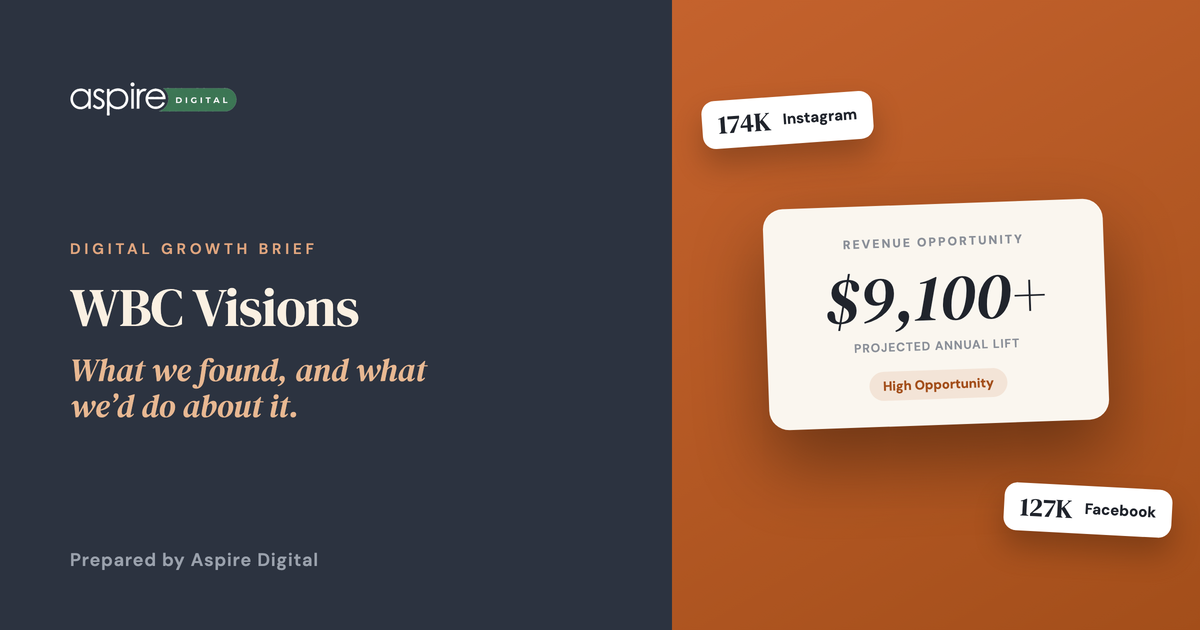
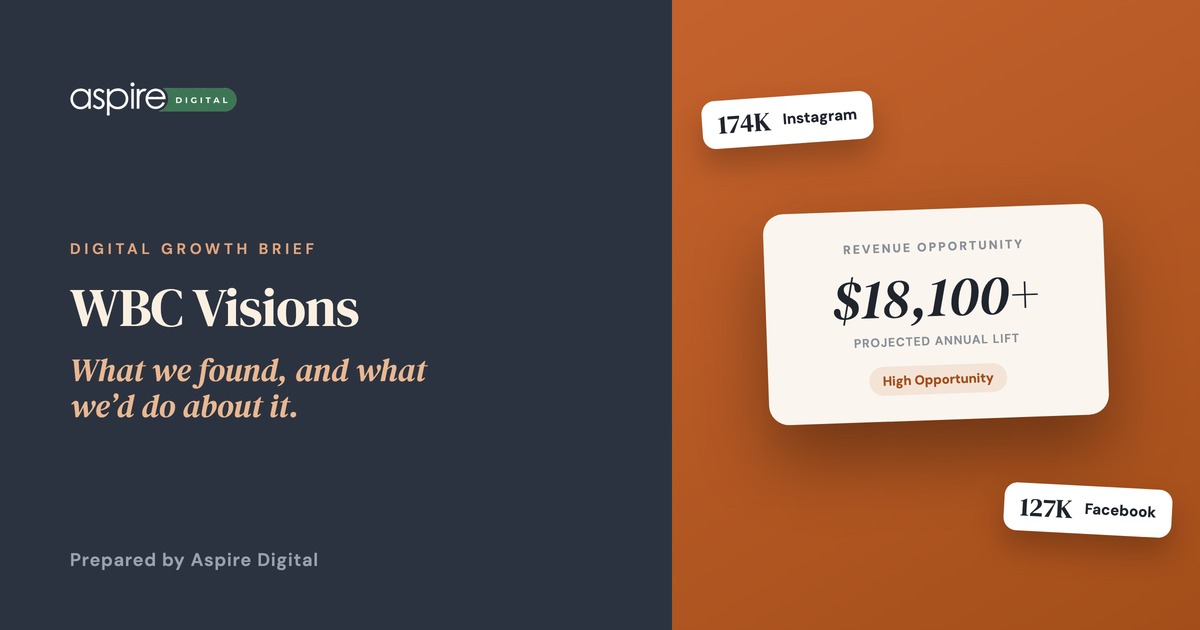
WBC Visions brief: his real rates (Messenger auto-reply) in 01 and the packages item; revenue lift rebuilt on them: 52 x $175 minis + 12 x $750 seniors = $18,100+, 64 new clients; OG card re-rendered

Changed region(s): [[0.6167, 0.3016, 0.925, 0.6333], [0.6475, 0.6333, 0.925, 0.6937]]

diff --git a/wbcvisions/welcome/index.html b/wbcvisions/welcome/index.html
@@ -917,10 +917,10 @@ img{max-width:100%;display:block;}
     </div>
     <div class="hero__opp-card">
       <p class="hero__opp-label">Revenue Opportunity</p>
-      <p class="hero__opp-num">$9,100+</p>
+      <p class="hero__opp-num">$18,100+</p>
       <p class="hero__opp-denom">projected annual lift</p>
       <span class="hero__opp-badge hero__opp-badge--high">High Opportunity</span>
-      <p class="hero__opp-desc">Just one extra $175 mini session a week, booked by someone who found you on Google instead of in the feed.</p>
+      <p class="hero__opp-desc">One extra $175 mini a week and one $750 senior session a month, booked by people who found you on Google instead of in the feed.</p>
     </div>
   </div>
 </section>
@@ -962,7 +962,7 @@ img{max-width:100%;display:block;}
         <ul class="quick-summary__list">
           <li>No website. wbcvisions.com is registered but shows a parked placeholder page.</li>
           <li>No Google Business Profile that we could find, so no map listing and no Google reviews.</li>
-          <li>Booking happens by text to (913) 995-0882, and prices only appear in individual posts.</li>
+          <li>Booking happens by text to (913) 995-0882, and your prices live in individual posts and a Messenger auto-reply, where Google can't read them.</li>
         </ul>
       </div>
     </div>
@@ -1458,7 +1458,7 @@ img{max-width:100%;display:block;}
           </div>
           <div class="phase-item">
             <strong class="phase-item__title">Packages and pricing, in plain view</strong>
-            <p class="phase-item__desc">One page that answers "how much?": mini sessions ($175 for 5 images, from your own post), senior sports portraits and team media days, each with what's included and a starting price you choose.</p>
+            <p class="phase-item__desc">One page that answers "how much?" with your real rates: mini sessions at $175 for 5 images, senior sessions at $750 (senior photos or sports only) or $1,100 for casual + sports, and team media days at $85 a player outdoors or $100 an athlete indoors with fog, each with what's included.</p>
           </div>
           <div class="phase-item">
             <strong class="phase-item__title">Book and pay a deposit online</strong>
@@ -1625,7 +1625,7 @@ img{max-width:100%;display:block;}
         </div>
         <div class="funnel-b__result-div"></div>
         <div class="funnel-b__result-item">
-          <div class="funnel-b__result-val">$9,100+</div>
+          <div class="funnel-b__result-val">$18,100+</div>
           <div class="funnel-b__result-label">Per Year — from search alone</div>
         </div>
       </div>
@@ -1689,7 +1689,7 @@ img{max-width:100%;display:block;}
     </div>
     <div class="gap-anchor">
       <div class="gap-anchor__label">That adds up to</div>
-      <div class="gap-anchor__num">$9,100+</div>
+      <div class="gap-anchor__num">$18,100+</div>
       <div class="gap-anchor__period">in new annual revenue — conservative estimate</div>
     </div>
     <div class="gap-bridge">
@@ -1728,7 +1728,7 @@ img{max-width:100%;display:block;}
         </div>
         <div class="range-spectrum__col range-spectrum__col--plan">
           <span class="range-spectrum__tier">Our Plan</span>
-          <span class="range-spectrum__amt">$9,100+</span>
+          <span class="range-spectrum__amt">$18,100+</span>
         </div>
         <div class="range-spectrum__col range-spectrum__col--ceil">
           <span class="range-spectrum__tier">The Ceiling</span>
@@ -1756,7 +1756,7 @@ img{max-width:100%;display:block;}
     </div>
     <div class="range-callout">
       <div class="range-callout__icon"><svg viewBox="0 0 16 16" fill="none"><path d="M8 2v4l3 3" stroke="currentColor" stroke-width="2" stroke-linecap="round"/><circle cx="8" cy="8" r="6" stroke="currentColor" stroke-width="2"/></svg></div>
-      <p class="range-callout__text"><strong>The year-one plan targets $9,100+.</strong> That's the conservative read — and it's still a meaningful gain. The ceiling is {REVENUE_OPTIMISTIC} when everything compounds.</p>
+      <p class="range-callout__text"><strong>The year-one plan targets $18,100+.</strong> That's the conservative read — and it's still a meaningful gain. The ceiling is {REVENUE_OPTIMISTIC} when everything compounds.</p>
     </div>
   </div>
 </section>
@@ -1776,14 +1776,14 @@ img{max-width:100%;display:block;}
     </div>
     <div class="meaning-anchor">
       <div class="meaning-anchor__label">Projected Annual Revenue Lift</div>
-      <div class="meaning-anchor__num">$9,100+</div>
+      <div class="meaning-anchor__num">$18,100+</div>
       <div class="meaning-anchor__period">per year, conservative</div>
-      <div class="meaning-anchor__note">Built only on your own posted price: $175 for a 5-image mini session. One extra session a week, booked by someone who found you on Google rather than in your feed, is 52 x $175 = $9,100 a year. It doesn't count team media days, senior sessions or print orders, which are bigger tickets. Your Messenger auto-reply lists those rates, but we kept this estimate to the one price you've posted publicly.</div>
+      <div class="meaning-anchor__note">Built on your own rates. One extra $175 mini session a week from Google is 52 x $175 = $9,100. One extra senior session a month at your lowest senior rate, $750, is 12 x $750 = $9,000. Together that's $18,100 a year. It doesn't count the $1,100 casual + sports sessions, team media days at $85 to $100 a player, or print orders, so the real number can run higher.</div>
     </div>
     <div class="meaning-grid">
       <div class="meaning-item">
         <div class="meaning-item__ico"><svg viewBox="0 0 20 20" fill="none"><path d="M10 2a4 4 0 1 0 0 8 4 4 0 0 0 0-8zM4 18a6 6 0 0 1 12 0" stroke="currentColor" stroke-width="1.75" stroke-linecap="round"/></svg></div>
-        <div class="meaning-item__num"><em>52</em> new clients</div>
+        <div class="meaning-item__num"><em>64</em> new clients</div>
         <div class="meaning-item__label">in your first year</div>
         <p class="meaning-item__sub">People who found you on Google, liked what they saw, and booked, without you lifting a finger.</p>
       </div>
@@ -1797,7 +1797,7 @@ img{max-width:100%;display:block;}
         <div class="meaning-item__ico"><svg viewBox="0 0 20 20" fill="none"><rect x="3" y="4" width="14" height="13" rx="2" stroke="currentColor" stroke-width="1.75"/><path d="M3 8h14M7 2v4M13 2v4" stroke="currentColor" stroke-width="1.75" stroke-linecap="round"/></svg></div>
         <div class="meaning-item__num">One <em>extra</em> booking</div>
         <div class="meaning-item__label">every week, on average</div>
-        <p class="meaning-item__sub">Consistent, predictable income growth, not feast-or-famine, not depending on word of mouth alone.</p>
+        <p class="meaning-item__sub">Consistent, predictable income growth, not feast-or-famine, not depending on word of mouth alone. Plus a senior session a month on top.</p>
       </div>
       <div class="meaning-item">
         <div class="meaning-item__ico"><svg viewBox="0 0 20 20" fill="none"><path d="M10 3v14M5 8l5-5 5 5" stroke="currentColor" stroke-width="1.75" stroke-linecap="round" stroke-linejoin="round"/></svg></div>
@@ -1809,8 +1809,8 @@ img{max-width:100%;display:block;}
     <div class="meaning-close">
       <p class="meaning-close__quote">Every session booked from a search is a family <em>you'd never have met</em> in the feed.</p>
       <div class="meaning-close__aside">
-        <div class="meaning-close__aside-num">52</div>
-        <div class="meaning-close__aside-label">extra sessions a year at one a week</div>
+        <div class="meaning-close__aside-num">64</div>
+        <div class="meaning-close__aside-label">extra sessions a year: 52 minis and 12 seniors</div>
       </div>
     </div>
   </div>
